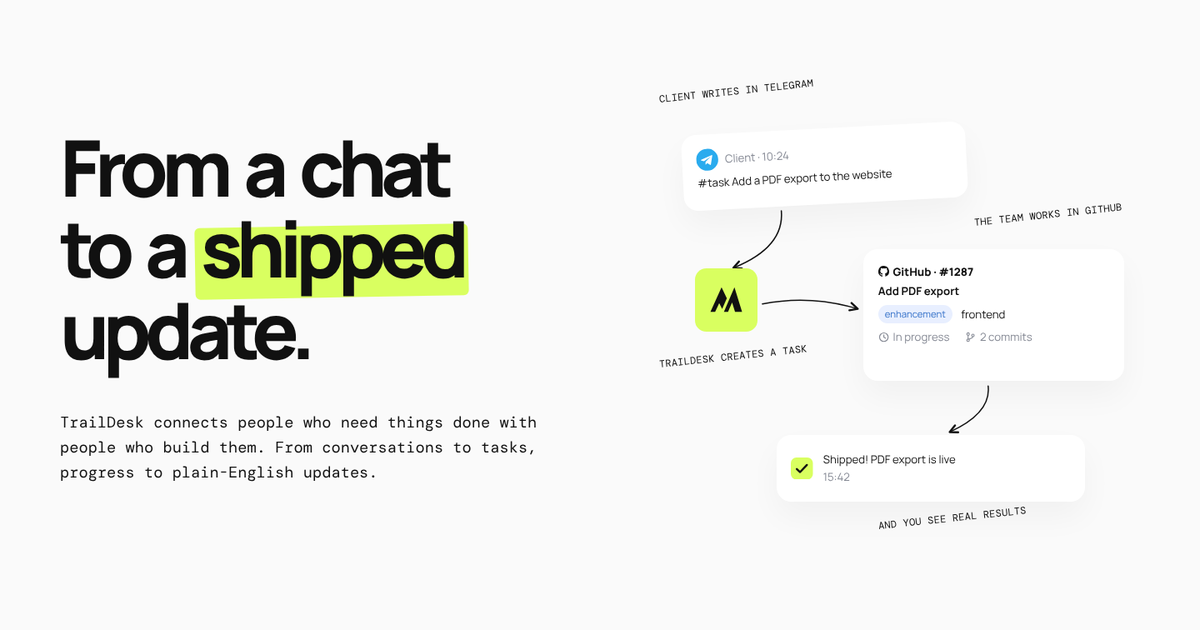
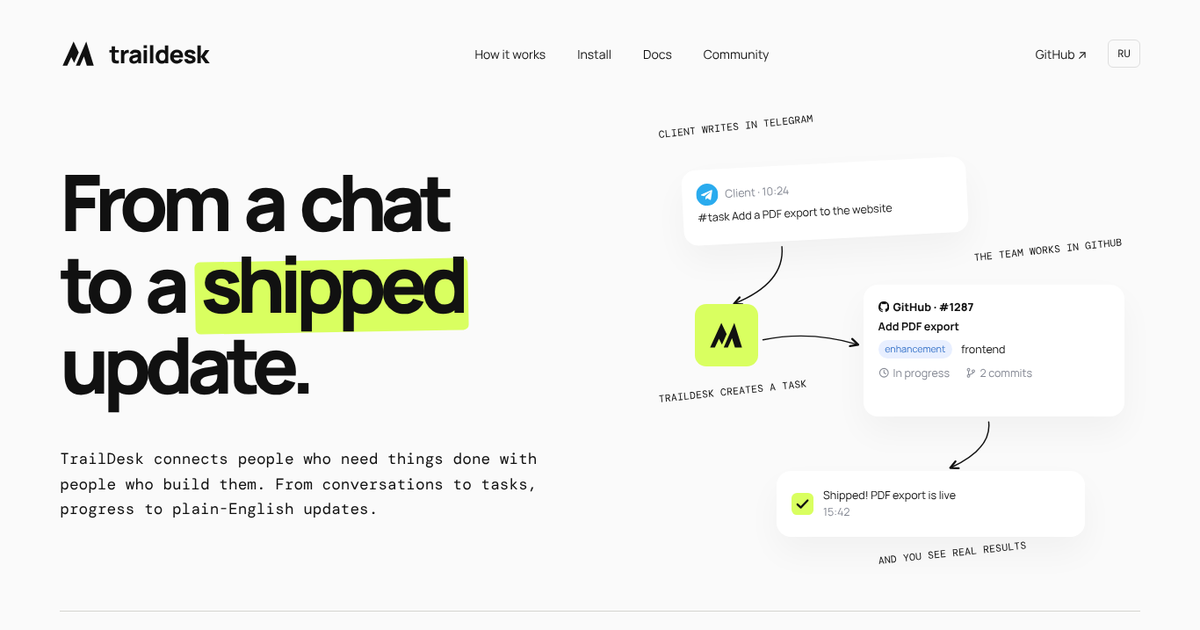
Лендинг — один экран без прокрутки, как в макете
Убраны разделы под первым экраном: шапка, заголовок, схема и подвал. Страница
ровно на высоту окна, схема подстраивается под высоту (проверено от 1100×800
до 1920×1080 на обоих языках). Пункты меню ведут на схему, инструкцию по
установке, документацию и Discussions. Разметка FAQ для поисковиков убрана —
вопросов на странице больше нет; подробности остаются в llms.txt.

Claude-Session: https://claude.ai/code/session_01HGcd3EpWAEPkR5h9VTtc1R

diff --git a/src/styles/site.css b/src/styles/site.css
@@ -10,14 +10,14 @@
 }
 
 * { box-sizing: border-box; }
-html { scroll-behavior: smooth; }
 body { margin: 0; background: var(--bg); color: var(--ink); font-family: var(--sans); -webkit-font-smoothing: antialiased; }
 a { color: inherit; text-decoration: none; }
 a:hover { text-decoration: underline; text-underline-offset: 3px; }
 p { margin: 0; }
 :focus-visible { outline: 3px solid var(--lime); outline-offset: 3px; border-radius: 4px; }
 
-.page { max-width: 1600px; margin: auto; padding: 40px 5% 30px; }
+.page { min-height: 100svh; max-width: 1600px; margin: auto; padding: 40px 5% 30px; display: flex; flex-direction: column; }
+.main { flex: 1; display: flex; }
 
 /* header */
 .header { display: flex; justify-content: space-between; align-items: center; gap: 24px; }
@@ -31,7 +31,7 @@ p { margin: 0; }
 .locale-switch:hover { background: var(--lime); text-decoration: none; }
 
 /* hero */
-.hero { display: grid; grid-template-columns: 1fr 1fr; gap: 5%; align-items: center; min-height: clamp(640px, calc(100svh - 110px), 860px); }
+.hero { flex: 1; display: grid; grid-template-columns: 1fr 1fr; gap: 5%; align-items: center; padding: 24px 0; }
 .headline { font-size: clamp(65px, 6.5vw, 110px); letter-spacing: -.085em; word-spacing: .1em; line-height: 1.04; margin: 0 0 48px; font-weight: 800; }
 .line { display: block; white-space: nowrap; }
 .highlight { position: relative; z-index: 0; }
@@ -39,7 +39,7 @@ p { margin: 0; }
 .description { font: clamp(16px, 1.3vw, 21px)/1.6 var(--mono); max-width: 660px; }
 
 /* diagram: one coordinate system 650×620 for cards, notes and arrows */
-.diagram { position: relative; margin: 0; width: 100%; max-width: 720px; justify-self: center; aspect-ratio: 650 / 620; container-type: inline-size; }
+.diagram { position: relative; margin: 0; width: min(100%, 720px, calc((100svh - 210px) * 650 / 620)); min-width: 360px; justify-self: center; aspect-ratio: 650 / 620; container-type: inline-size; }
 .arrows { position: absolute; inset: 0; width: 100%; height: 100%; pointer-events: none; overflow: visible; }
 .arrows path { fill: none; stroke: #111; stroke-width: 1.6; stroke-linecap: round; stroke-linejoin: round; stroke-dasharray: 260; animation: draw 1.6s ease both; }
 .arrows path:nth-of-type(2) { animation-delay: .35s; }
@@ -68,54 +68,15 @@ p { margin: 0; }
 .n4 { left: 49%; top: 93.6%; }
 .muted { color: var(--muted); }
 
-/* sections below the first screen */
-.section { padding: 96px 0 0; }
-.section h2 { font-size: clamp(34px, 3.6vw, 56px); font-weight: 800; letter-spacing: -.05em; line-height: 1.05; margin: 0 0 36px; max-width: 18ch; }
-.tile { background: var(--card); border-radius: 18px; padding: 26px; box-shadow: var(--shadow); }
-.tile h3, .tile dt { font-size: 19px; font-weight: 800; letter-spacing: -.02em; margin: 0 0 8px; }
-.tile p, .tile dd { margin: 0; color: var(--ink-2); font-size: 16px; line-height: 1.6; }
-.grid3 { display: grid; grid-template-columns: repeat(3, 1fr); gap: 20px; }
-.steps { list-style: none; margin: 0; padding: 0; display: grid; grid-template-columns: repeat(3, 1fr); gap: 20px; }
-.step-n { display: inline-block; font: 13px var(--mono); background: var(--lime); border-radius: 6px; padding: 3px 8px; margin-bottom: 18px; }
-.features { display: grid; grid-template-columns: repeat(3, 1fr); gap: 20px; margin: 0; }
-
-.install { display: grid; grid-template-columns: minmax(0, 1fr) minmax(0, 1.5fr); gap: 48px; align-items: start; }
-.lead { font: 16px/1.7 var(--mono); color: var(--ink-2); max-width: 52ch; }
-.more { display: inline-block; margin-top: 24px; font: 14px var(--mono); border-bottom: 2px solid var(--lime); }
-.more:hover { text-decoration: none; background: var(--lime); }
-.cmds { list-style: none; margin: 0; padding: 0; display: grid; gap: 16px; }
-.cmds li { min-width: 0; }
-.cmd-label { display: block; font-weight: 700; font-size: 14px; margin-bottom: 6px; }
-.code { position: relative; background: #111; border-radius: 14px; }
-.code pre { margin: 0; padding: 16px 18px; padding-right: 100px; overflow-x: auto; color: #e9eaec; font: 13.5px/1.6 var(--mono); }
-.copy { position: absolute; top: 9px; right: 9px; background: #2a2b2e; color: #e9eaec; border: 0; border-radius: 7px; padding: 5px 10px; font: 12px var(--mono); cursor: pointer; }
-.copy:hover { background: var(--lime); color: #111; }
-
-.faq details, .faq h2 { max-width: 860px; }
-.faq details { border-bottom: 1px solid var(--line); padding: 20px 0; }
-.faq summary { cursor: pointer; font-weight: 700; font-size: 18px; list-style: none; display: flex; justify-content: space-between; gap: 16px; }
-.faq summary::-webkit-details-marker { display: none; }
-.faq summary::after { content: "+"; font: 18px var(--mono); }
-.faq details[open] summary::after { content: "–"; }
-.faq details p { margin-top: 10px; color: var(--ink-2); line-height: 1.65; max-width: 72ch; }
-
-.cta { padding-bottom: 96px; }
-.cta h2 { margin-bottom: 20px; }
-.links { display: flex; flex-wrap: wrap; gap: 28px; font: 15px var(--mono); }
-.links a { border-bottom: 2px solid var(--lime); }
-.links a:hover { text-decoration: none; background: var(--lime); }
-
 /* footer */
-.footer { border-top: 1px solid var(--line); display: flex; justify-content: space-between; align-items: center; flex-wrap: wrap; gap: 20px; padding-top: 28px; font: 11px var(--mono); letter-spacing: .07em; text-transform: uppercase; }
-.footer nav { display: flex; flex-wrap: wrap; gap: 22px; }
+.footer { border-top: 1px solid var(--line); display: flex; justify-content: space-between; gap: 20px; padding-top: 28px; font: 11px var(--mono); letter-spacing: .07em; text-transform: uppercase; }
 .dot { display: inline-block; background: var(--lime); width: 10px; height: 10px; border-radius: 50%; margin-right: 10px; vertical-align: -1px; }
 
 @media (max-width: 1050px) {
   .nav { display: none; }
-  .hero { grid-template-columns: 1fr; padding-top: 70px; min-height: 0; gap: 56px; }
+  .hero { grid-template-columns: 1fr; padding-top: 70px; gap: 56px; }
   .headline { font-size: clamp(55px, 9vw, 95px); }
-  .grid3, .steps, .features { grid-template-columns: 1fr 1fr; }
-  .install { grid-template-columns: 1fr; }
+  .diagram { width: min(100%, 680px); min-width: 0; }
 }
 
 /* phone: the diagram becomes a column — readable text instead of a shrunken picture */
@@ -136,9 +97,7 @@ p { margin: 0; }
   .n1::before { content: none; }
   .n1 { margin-top: 0; }
   .hub { width: 56px; border-radius: 12px; }
-  .grid3, .steps, .features { grid-template-columns: 1fr; }
-  .section { padding-top: 64px; }
-  .footer { font-size: 9px; flex-direction: column; align-items: flex-start; }
+  .footer { font-size: 8px; }
 }
 
-@media (prefers-reduced-motion: reduce) { html { scroll-behavior: auto; } .arrows path { animation: none; } }
+@media (prefers-reduced-motion: reduce) { .arrows path { animation: none; } }
